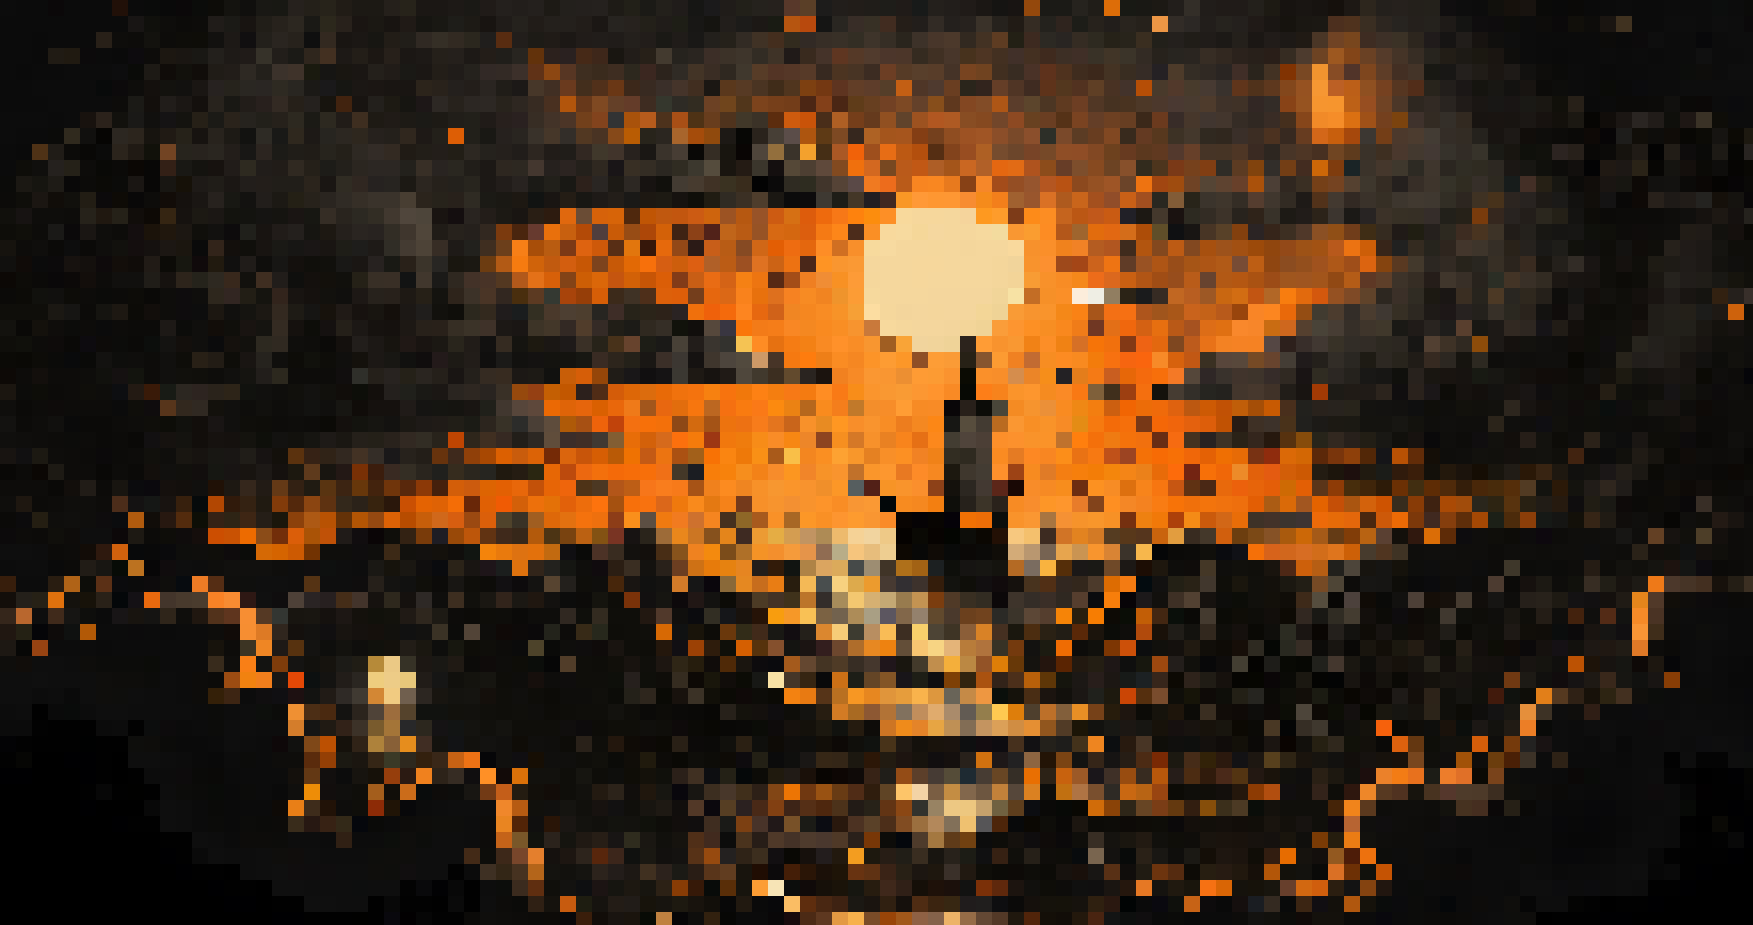
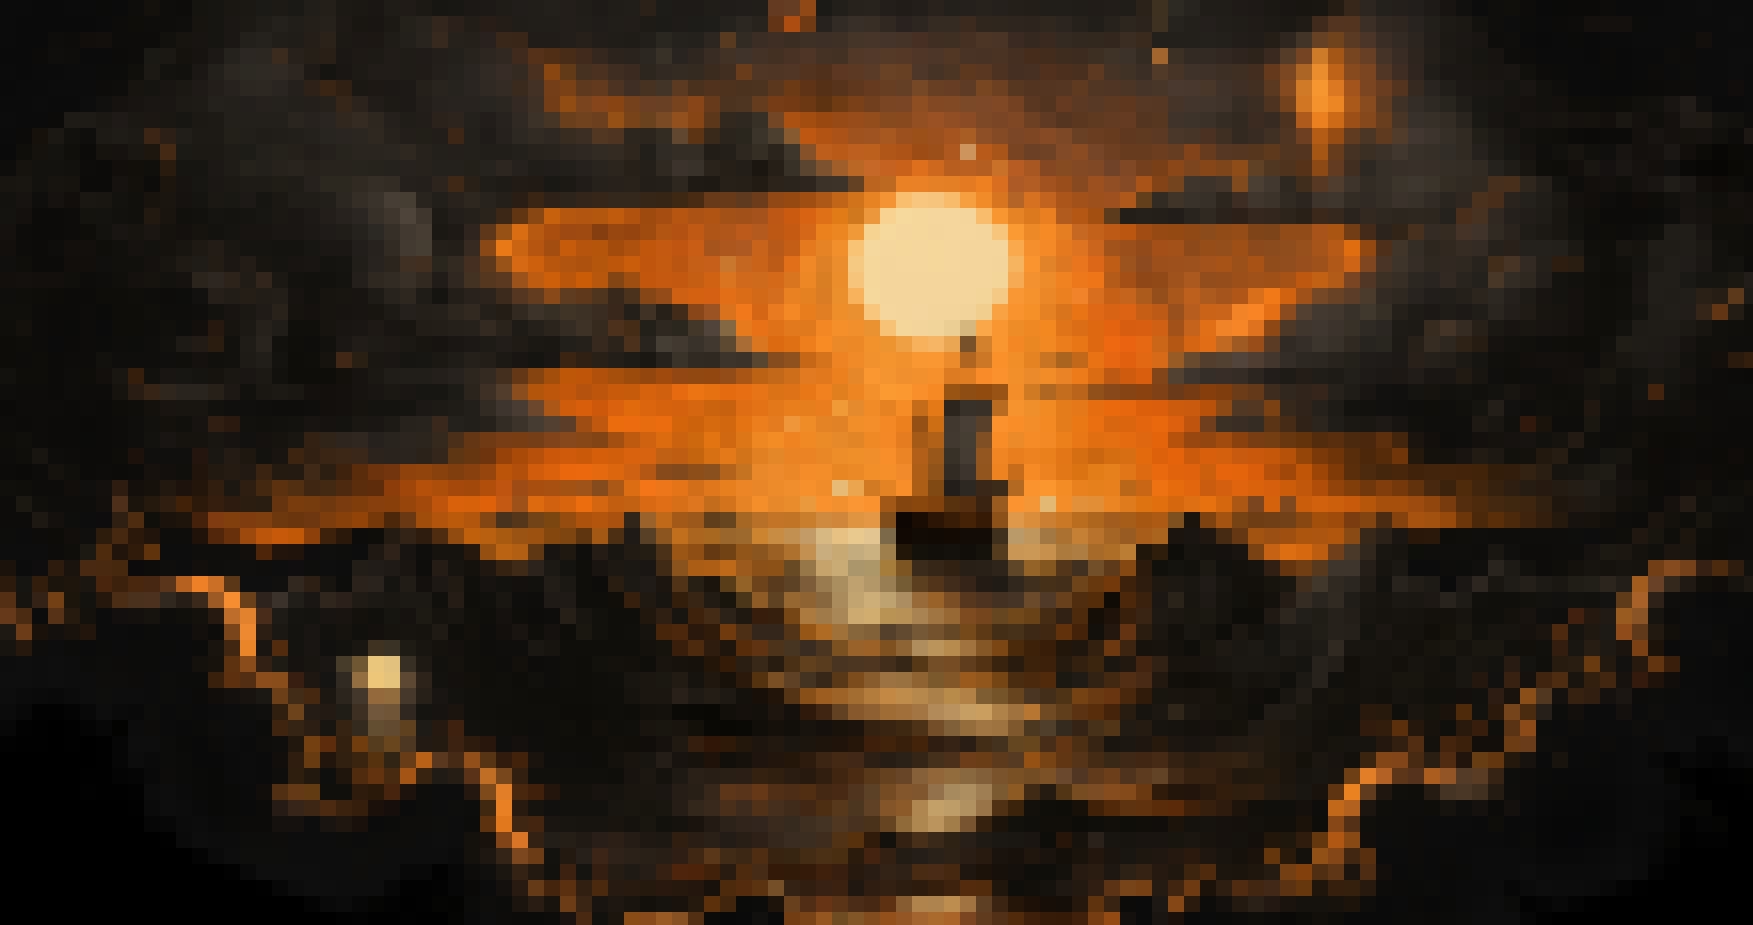
Added and average colors function to get the acg color in a block

diff --git a/Image/loadImage.java b/Image/loadImage.java
@@ -38,7 +38,7 @@ public class loadImage {
 
         // Select top left color to color whole block 
         // FUTURE: change this to be a function that gets the average color of the block
-        int rgb = src[by * width + bx];
+        int rgb = AverageColors(src, by, bx, yEnd, xEnd, width);
 
         //Loop through the individual block
         for(int y = by; y < yEnd; y++){
@@ -59,4 +59,34 @@ public class loadImage {
 
     return output;
   }  
+
+  private static int AverageColors(int[] src, int by, int bx, int yEnd, int xEnd, int width){
+    //Bit masking
+    int A = 0;
+    int R = 0;
+    int G = 0;
+    int B = 0;
+    int actualWidth = xEnd - bx;
+    int actualHeight = yEnd - by;
+    int count = actualWidth * actualHeight;
+
+    for(int y = by; y < yEnd; y++){
+        int row = y * width;
+        for(int x = bx; x < xEnd; x++){
+          int pixel = src[row + x];
+          
+          A += (pixel >>> 24) & 0xFF;
+          R += (pixel >>> 16) & 0xFF;
+          G += (pixel >>> 8) & 0xFF;
+          B += (pixel) & 0xFF;
+        }
+    }
+
+    A /= count;
+    R /= count;
+    G /= count;
+    B /= count;
+
+    return (A << 24) | (R << 16) | (G << 8) | B;
+  }
 }
